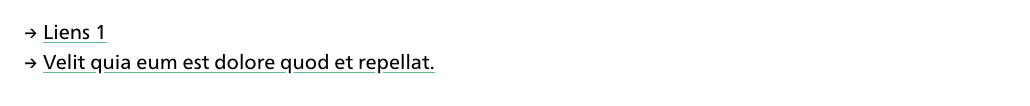
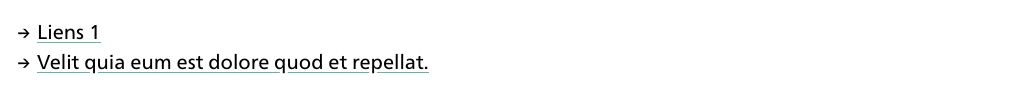
update facets list component

Changed region(s): [[0.0, 0.5094, 0.435, 0.7075], [0.0, 0.2264, 0.1243, 0.3679]]

diff --git a/assets/sass/atoms/_list.scss b/assets/sass/atoms/_list.scss
@@ -30,7 +30,7 @@ ul.treeview-list,
 ul.unordered-list,
 ul.facets-list {
   list-style: none;
-  margin-left: $grid-gutter-width / 2;
+  margin-left: 0;
 
   > ul {
     padding-left: 0.4em;
@@ -39,13 +39,13 @@ ul.facets-list {
   > li {
     position: relative;
     margin-bottom: 0.3em;
-    padding-left: 0.5em;
+    padding-left: 1em;
 
     &:before {
       content: '\0025A0'; // ■
       position: absolute;
       top: -0.2em;
-      left: -0.5em;
+      left: 0;
       font-size: 0.8em;
       color: $gray;
     }
@@ -57,7 +57,11 @@ ul.facets-list {
 }
 
 ul.treeview-list {
+  margin-left: $grid-gutter-width / 2;
+
   > li {
+    padding-left: 0.5em;
+
     &:before {
       content: '\231E'; // →
       top: 0;
@@ -72,7 +76,6 @@ ul.facets-list {
     &:before {
       content: '→'; // →
       top: 0;
-      left: -0.5em;
       font-size: 0.9em;
       color: $black;
     }
